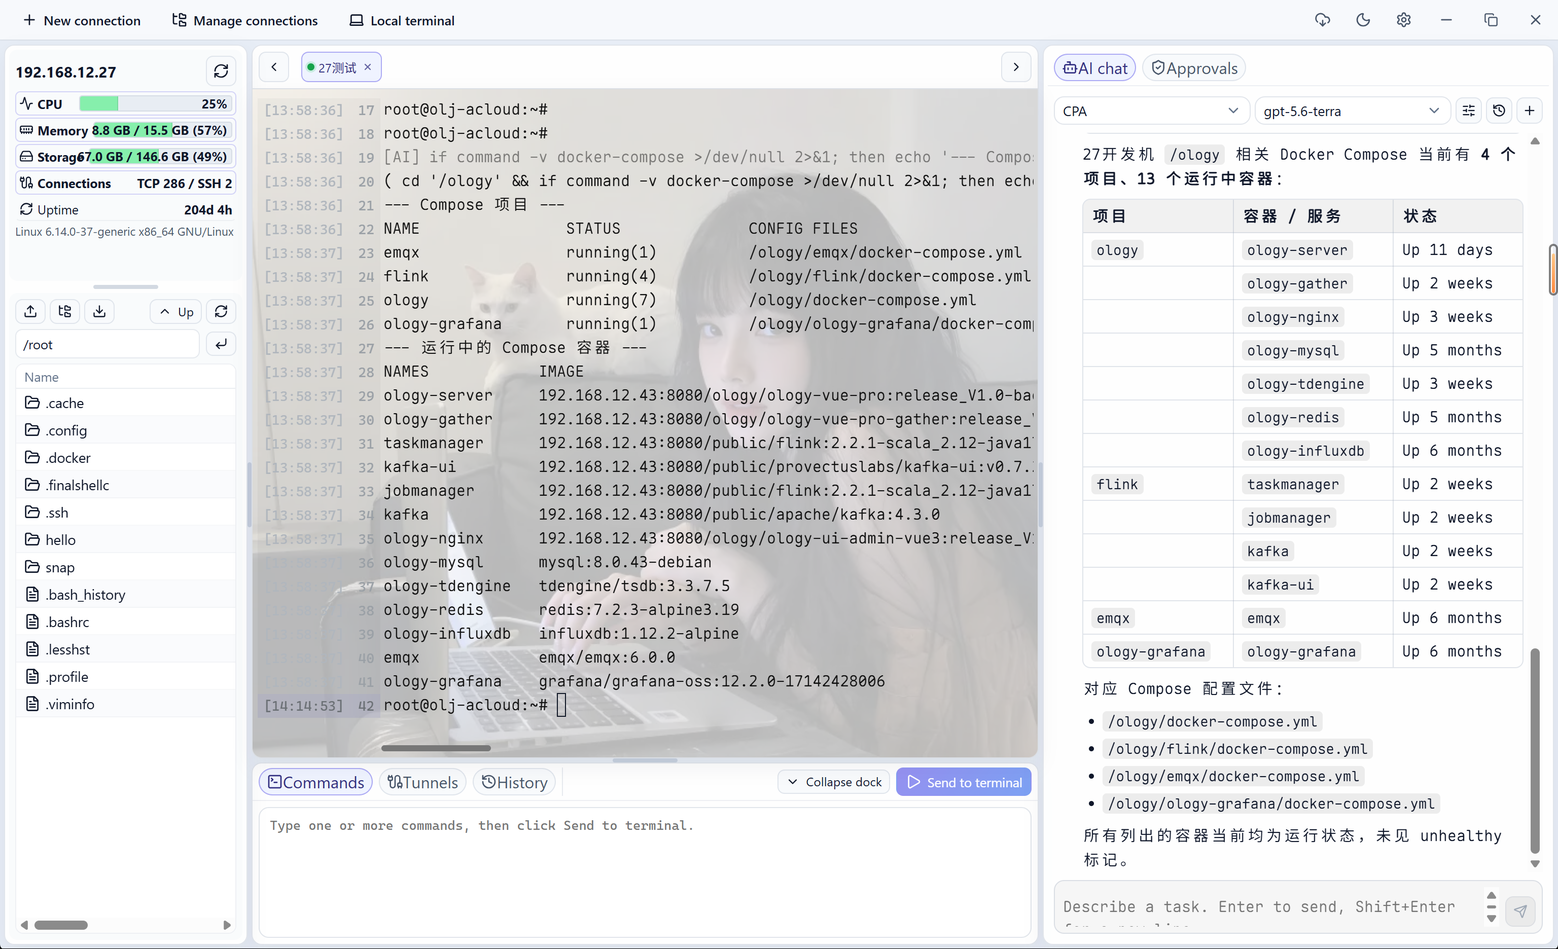
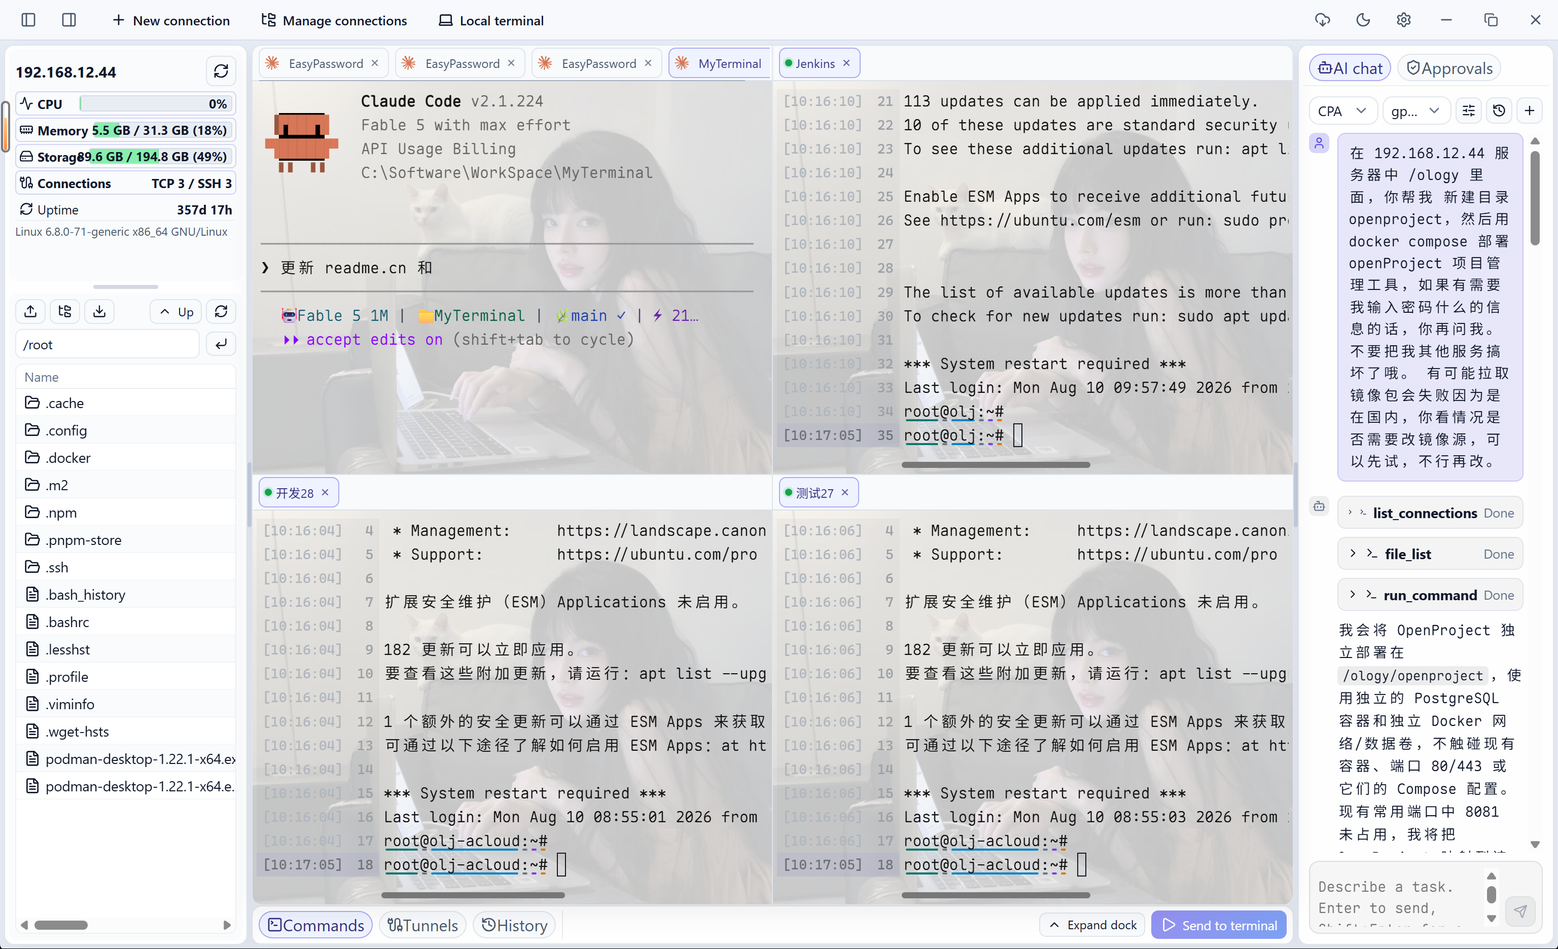
docs: 更新 .gitignore 文件 和 README.md 文件

diff --git a/README.md b/README.md
@@ -10,7 +10,7 @@
 
 A modern desktop SSH terminal manager built with Rust, Tauri 2, and React.
 
-MyTerminal brings terminal tabs, SSH profiles with jump hosts and proxies, SFTP file management, remote file editing, local port forwarding, and WebDAV backup into one clean desktop app. It is designed for developers and operators who want a lightweight, open, and hackable alternative to heavyweight remote terminal suites.
+MyTerminal brings terminal tabs with drag-to-split layouts, SSH profiles with jump hosts and proxies, Windows Remote Desktop, SFTP file management, remote file editing, local port forwarding, a built-in AI assistant, and WebDAV backup into one clean desktop app. It is designed for developers and operators who want a lightweight, open, and hackable alternative to heavyweight remote terminal suites.
 
 ![MyTerminal preview](img.png)
 
@@ -19,6 +19,8 @@ MyTerminal brings terminal tabs, SSH profiles with jump hosts and proxies, SFTP 
 ### SSH Profiles and Routing
 
 - **SSH profile manager** - Create, edit, group, duplicate, move, sort, and test SSH connections before opening a session.
+- **Windows Remote Desktop (RDP)** - Save RDP entries alongside SSH profiles and open them with the system Remote Desktop client. Passwords are written as session-scoped Windows credentials instead of being passed on the command line. Windows only, and without jump-host or proxy support.
+- **Connection type icons** - The connection list and editor use consistent icons to distinguish SSH terminals from Windows Remote Desktop entries; both types share the same group tree and ordering.
 - **Password and private-key authentication** - Connect with passwords, key files, or pasted private-key content, including passphrase and secret visibility toggles where needed.
 - **Jump hosts** - Configure ordered SSH jump-host chains and reuse the same routing model for terminals, file operations, tunnels, and MCP Bridge sessions.
 - **First-hop proxies** - Route the first SSH hop through SOCKS5 or HTTP CONNECT proxies with optional proxy authentication.
@@ -27,18 +29,25 @@ MyTerminal brings terminal tabs, SSH profiles with jump hosts and proxies, SFTP 
 ### Terminal Workspace
 
 - **Tabbed SSH terminals** - Open multiple PTY sessions, reorder tabs, reconnect in place, close sessions, and keep the session title tied to the active SSH profile.
+- **Drag-to-split layouts** - Drag a tab from the tab bar into the terminal area to split it. Eight snap points (four corners and four edge midpoints) appear with a live preview of the target region, and dropping either opens a new pane, moves the tab into a cell, or reshapes that cell. Layouts are built on a 2×2 grid with up to four panes, covering full screen, left/right, top/bottom, three-pane, and four-pane arrangements.
+- **Per-pane tab bars** - Each pane has its own tab bar and can hold several tabs with independent ordering. SSH and local terminals can be mixed freely, the focused pane is outlined, and the sidebar file, runtime, and command panels follow the focused tab. Split layouts live only for the current run and start from a single pane on restart.
 - **Non-blocking connection startup** - New SSH tabs enter a connecting state immediately while SSH handshake and authentication run in the background.
 - **Interactive input handling** - Printable input is lightly batched to reduce WebView-to-Rust IPC load, while Enter, Tab, control sequences, and editing keys are flushed immediately.
 - **Right-click workflows** - Use right-click menu actions for copy and paste, or configure right-click to paste directly; terminal focus is restored after menu actions.
+- **Line number and timestamp gutter** - A dedicated gutter on the left can show logical line numbers and the arrival time of each line. Right-click the gutter to toggle either one, and the choice is persisted immediately.
+- **Selection match highlighting** - Selecting terminal text highlights identical content elsewhere in the scrollback; this can be turned off in appearance settings.
+- **Prompt syntax highlighting** - User, host, path, and symbol segments of the shell prompt are colored separately, with distinct palettes for light and dark themes.
 - **Cursor recovery** - Remote programs that hide the terminal cursor and fail to restore it are handled at prompt boundaries so the input cursor comes back.
 - **Local cursor fallback** - The frontend restores xterm cursor visibility when switching sessions or replaying cached output, without sending control characters back to SSH.
-- **Search and fit behavior** - xterm.js powers terminal rendering, sizing, and terminal search support.
+- **Custom scrollbars** - The terminal scrollbar appears as the pointer approaches the right edge and supports dragging; the tab bar gains a click-to-jump, draggable horizontal scrollbar when tabs overflow.
+- **Adaptive sizing** - xterm.js powers terminal rendering, and rows and columns are recalculated and pushed to the remote PTY whenever the window or split layout changes.
 - **Focus-aware session switching** - Switching sessions, reconnecting, and delayed SSH startup restore input focus when the target terminal is ready.
 - **SSH long-line display modes** - SSH sessions can wrap automatically or keep long output on one horizontally scrolling line; local terminals and TUIs always wrap.
 - **Path-aware terminal output** - The shell injects a cwd sync hook so the app can follow remote directory changes made with `cd`, `pushd`, or `popd`.
 - **Direct-input cwd refresh** - Typed or pasted `cd` commands refresh the file panel early, then backend cwd markers correct the path if needed.
 - **Child-shell cwd sync** - Bash child shells inherit the cwd sync hook, while non-interactive scripts avoid emitting MyTerminal sync markers.
 - **Remote shell history** - Read remote shell history files for command history features without exposing MyTerminal's internal setup command.
+- **System clipboard bridge** - Copy and cut anywhere in the app also write to the Windows system clipboard, and terminal paste reads through the native channel so the WebView never prompts for clipboard permission.
 
 ### Local Terminals and AI CLIs
 
@@ -63,10 +72,24 @@ MyTerminal brings terminal tabs, SSH profiles with jump hosts and proxies, SFTP 
 
 ### Runtime and Tunnels
 
-- **Runtime overview** - Fetch remote OS, CPU, memory, disk, host IP, and uptime information for the active SSH profile.
+- **Runtime overview** - Fetch remote CPU, memory, root filesystem usage, connection counts, uptime, and OS information for the active SSH profile, with each row color-coded by utilization.
+- **Per-core CPU detail** - Expand the CPU row to see utilization for every individual core.
+- **Top resource consumers** - Expand the memory row to see the heaviest entries, sortable by memory or CPU and grouped by process or thread.
+- **Multiple resource sources** - Switch the resource statistics source between system processes, Docker, Podman, and Kubernetes in settings; the Kubernetes source reports pod-level CPU and memory across all namespaces.
+- **Largest file lookup** - Expand the storage row to find the largest files on the remote host with full paths, using a time-bounded scan.
 - **Connection details** - Expand the connections metric to inspect local/peer addresses and ports of established remote connections, with SSH management connections pinned and tagged.
 - **Local port forwarding** - Create, edit, start, and stop SSH local forwarding rules with custom bind addresses and target hosts.
 - **Tunnel lifecycle management** - Running tunnel records are tracked separately from terminal sessions so they can be stopped cleanly.
+
+### Built-in AI Assistant
+
+- **AI chat panel** - A collapsible right sidebar hosts an AI conversation with streaming output, a stop control, new-conversation support, and locally stored chat history you can reopen or delete.
+- **Multiple endpoints and models** - Configure several AI endpoints, each with its own models, context window, and output limit. API keys are encrypted at rest.
+- **Three API protocols** - Anthropic Messages, OpenAI Chat Completions, and OpenAI Responses are supported. The settings page previews the resolved request URL and maps common HTTP errors to actionable hints.
+- **Thinking effort and auto-compaction** - Pick a thinking effort level per turn and optionally auto-compact the conversation: once estimated tokens pass your threshold, older messages are folded into a summary and the panel says so.
+- **AI operations on remote hosts** - The assistant can list connections, run commands, and use the full remote file toolset, governed by the same approval policy as external MCP clients.
+- **Commands run in real terminals** - AI commands are typed into a visible terminal tab and echoed with a highlighted `[AI]` prefix. When the shell lacks command-boundary support, a full-screen TUI is in the foreground, or the terminal is busy, execution falls back to a background channel and the reason is reported honestly.
+- **Inline approvals** - Approval cards from the built-in assistant appear directly under the tool call that raised them, and the sidebar auto-expands to the chat tab when collapsed.
 
 ### MCP Bridge and AI Approval
 
@@ -76,6 +99,7 @@ MyTerminal brings terminal tabs, SSH profiles with jump hosts and proxies, SFTP 
 - **GUI-approved execution** - Remote commands, uploads, downloads, writes, deletes, renames, and directory creation requests are shown in MyTerminal for approval by default.
 - **Right-side AI execution panel** - Pending and completed AI requests live in a resizable right sidebar so command, file, and history panels remain available.
 - **Serialized session commands** - Commands submitted to the same AI bridge session run in order, while different sessions can still run concurrently.
+- **Dedicated execution settings** - Auto-execution, run-in-terminal, default timeout, and maximum output size live on a separate Execution settings page shared by the built-in assistant and external MCP clients.
 - **Auto-execution controls** - Enable automatic bridge execution globally or allow it only for selected SSH connections.
 - **AI approval notifications** - Pending AI execution requests can expand automatically, show compact SSH/command/target summaries, and raise desktop notifications with approval shortcuts where supported.
 - **Agent usage guidance** - MCP clients receive tool instructions that clarify list/open/use/close flow, session ID rules, and file-write best practices.
@@ -92,7 +116,10 @@ MyTerminal brings terminal tabs, SSH profiles with jump hosts and proxies, SFTP 
 ### Desktop Experience
 
 - **Bilingual UI** - Switch between English and Simplified Chinese.
-- **Theme and layout preferences** - Use light or dark mode, compact sidebar, customizable terminal fonts, terminal background images, right-click behavior, and long-line display mode.
+- **Custom title bar** - A borderless window with a custom title bar hosting sidebar toggles, new connection, connection manager, local terminal, update check, theme switch, settings, and window controls. In-app modals are draggable.
+- **Appearance settings** - Set Latin font, CJK font, font size, and line height separately for terminals and the AI chat area, with one-click reset for size and line height. Terminal background images support opacity plus cover, contain, stretch, tile, and center fitting. Right-click behavior, long-line mode, selection match highlighting, and hardware acceleration are all toggleable.
+- **Unified floating toasts** - Results from saving settings, testing connections, and copying configuration appear as a short-lived floating toast instead of inline blocks that shift the form layout.
+- **Progressive startup** - The terminal core and AI chat panel load on demand so the title bar and sidebars are usable first. The AI sidebar is not loaded until first expanded, and collapsing it afterwards never interrupts an in-flight streaming response.
 - **System tray support** - Keep MyTerminal accessible from the desktop shell with a tray icon.
 - **Local-first storage** - Settings and SSH profiles are stored locally, with encrypted secret handling inside the app and plain JSON only when you explicitly export.
 
@@ -211,6 +238,7 @@ npm run check        # Run frontend build and Rust backend checks
 - **Backend:** Rust, ssh2, reqwest, AES-GCM, local JSON persistence
 - **Frontend:** React, TypeScript, Vite, Zustand
 - **Terminal and editor:** xterm.js, portable-pty, Monaco Editor
+- **AI integration:** Anthropic Messages, OpenAI Chat Completions and Responses, MCP
 - **Sync and files:** SFTP, WebDAV, local import/export
 
 ## Acknowledgements

diff --git a/README_CN.md b/README_CN.md
@@ -10,7 +10,7 @@
 
 一个基于 Rust、Tauri 2 和 React 构建的现代桌面 SSH 终端管理工具。
 
-MyTerminal 把终端标签页、支持跳板机与代理的 SSH 连接管理、SFTP 文件管理、远程文件编辑、本地端口转发和 WebDAV 备份放到一个清爽的桌面应用里。它面向开发者和运维场景，希望提供一个轻量、开放、可折腾的远程终端工具。
+MyTerminal 把终端标签页与拖拽分屏、支持跳板机与代理的 SSH 连接管理、Windows 远程桌面、SFTP 文件管理、远程文件编辑、本地端口转发、内置 AI 助手和 WebDAV 备份放到一个清爽的桌面应用里。它面向开发者和运维场景，希望提供一个轻量、开放、可折腾的远程终端工具。
 
 ![MyTerminal 预览](img_cn.png)
 
@@ -19,6 +19,8 @@ MyTerminal 把终端标签页、支持跳板机与代理的 SSH 连接管理、S
 ### SSH 连接与链路
 
 - **SSH 连接管理** - 支持新建、编辑、分组、复制、移动、拖拽排序，并可在连接前测试配置。
+- **Windows 远程桌面（RDP）** - 连接列表可保存 RDP 连接，打开时调用系统自带的远程桌面客户端；密码通过 Windows 凭据 API 以会话级凭据写入，不经过命令行明文传递。仅 Windows 可用，且不支持跳板机与代理。
+- **连接类型区分** - 连接列表和编辑表单用统一图标区分 SSH 终端与 Windows 远程桌面，两类连接共用同一套分组树和排序。
 - **密码与私钥认证** - 支持 SSH 密码、私钥文件、粘贴私钥内容认证，以及密码 / 私钥口令的明文查看开关。
 - **跳板机链路** - 支持按顺序配置多级 SSH 跳板机，终端、文件操作、隧道和 MCP Bridge 会话统一复用这套链路模型。
 - **首跳代理** - 支持通过 SOCKS5 或 HTTP CONNECT 代理连接第一跳 SSH，并可配置代理认证。
@@ -27,18 +29,25 @@ MyTerminal 把终端标签页、支持跳板机与代理的 SSH 连接管理、S
 ### 终端工作区
 
 - **多标签 SSH 终端** - 支持真实 SSH PTY 会话、多会话标签页、标签拖拽排序、原位重连、关闭会话，并根据 SSH 连接显示标签标题。
+- **拖拽分屏** - 把标签从标签栏拖入终端区即可分屏，终端区会浮出四角与四边共 8 个吸附点并实时预览目标区域，落点分别对应新开分屏、移到此格和改变此格范围。基于 2×2 网格，最多 4 格，可组成整屏、左右两分、上下两分、三分和四分布局。
+- **每格独立标签栏** - 每个分屏格有自己的标签栏，一格可以挂多个标签并单独排序；SSH 与本地终端可混合分屏，聚焦的格子带描边高亮，侧栏的文件、运行状态和命令面板跟随当前聚焦标签。分屏布局只存在于运行期，重启后从单格开始。
 - **非阻塞连接启动** - 打开 SSH 标签后立即进入 connecting 状态，SSH 握手与认证在后台线程完成，避免界面等待网络。
 - **交互输入处理** - 普通字符使用极短合并窗口降低 WebView 到 Rust 的 IPC 压力，Enter、Tab、控制序列和编辑键立即发送到远端 PTY。
 - **右键工作流** - 支持右键菜单复制 / 粘贴，也可配置右键直接粘贴；菜单操作结束后会把焦点交回终端。
+- **行号与时间戳栏** - 终端左侧独立栏可显示逻辑行号和每行到达时刻的时间戳，在该栏上右键即可分别开关，切换后立即持久化。
+- **选中匹配高亮** - 选中终端文本后，滚动缓冲区内完全一致的内容会自动高亮，可在外观设置中关闭。
+- **提示符语义高亮** - 提示符中的用户、主机、路径和符号按语义分色渲染，深浅色主题各有一套配色。
 - **光标恢复** - 远端程序隐藏光标后如果异常返回 shell，提示符边界会兜底恢复光标，避免后续输入看不到插入点。
 - **本地光标兜底** - 切换会话或重放缓存输出时，前端会恢复 xterm 光标显示，且不会把控制符发送回 SSH。
-- **搜索与自适应尺寸** - 基于 xterm.js 提供终端渲染、尺寸适配和搜索能力。
+- **自绘滚动条** - 终端右侧滚动条在指针靠近时显现并支持拖拽；标签过多时标签栏也会出现可点击跳转、可拖拽的横向滚动条。
+- **自适应尺寸** - 基于 xterm.js 渲染，窗口缩放和分屏布局变化时自动重算行列数并同步远端 PTY。
 - **会话焦点管理** - 切换会话、重连或 SSH 后台启动完成后，会在目标终端可输入时恢复输入焦点。
 - **SSH 长行展示模式** - SSH 会话可选择自动换行，或使用横向滚动把长输出保留在同一行并跟随光标；本地终端与 TUI 始终自动换行。
 - **终端路径联动** - 注入远端 cwd 同步钩子后，终端执行 `cd`、`pushd`、`popd` 可联动文件管理器路径。
 - **直接输入路径刷新** - 手输或粘贴 `cd` 命令后会提前刷新文件面板，后端 cwd 标记返回后再做最终校正。
 - **子 Shell 路径同步** - Bash 子 Shell 会继承 cwd 同步钩子，非交互脚本不会输出 MyTerminal 的同步标记。
 - **远端历史读取** - 可读取远端 shell 历史文件用于命令历史能力，同时隐藏 MyTerminal 内部注入命令。
+- **系统剪贴板桥接** - 应用内任意位置的复制 / 剪切都会同步写入 Windows 系统剪贴板，终端右键粘贴也走原生通道，避免 WebView 弹出剪贴板权限请求。
 
 ### 本地终端与 AI CLI
 
@@ -63,10 +72,24 @@ MyTerminal 把终端标签页、支持跳板机与代理的 SSH 连接管理、S
 
 ### 运行状态与隧道
 
-- **运行状态概览** - 可读取当前 SSH 连接的远端 OS、CPU、内存、磁盘、主机 IP 和 uptime 信息。
+- **运行状态概览** - 可读取当前 SSH 连接的远端 CPU、内存、根分区存储、连接数、运行时长和操作系统信息，各行按占用率分级着色。
+- **每核心 CPU 明细** - 展开 CPU 行可查看每个核心的独立占用率。
+- **资源占用 Top 列表** - 展开内存行可查看占用最高的条目，支持按内存 / CPU 排序，以及按进程 / 线程统计。
+- **多种资源来源** - 资源占用统计来源可在设置中切换为系统进程、Docker、Podman 或 Kubernetes；Kubernetes 来源读取全命名空间的 Pod 级 CPU 与内存。
+- **最大文件排查** - 展开存储行可查看远端占用空间最大的若干文件及完整路径，扫描带超时限制。
 - **连接明细展开** - 连接数行可展开查看远端 ESTABLISHED 连接的本地 / 对端地址与端口，SSH 管理连接自动置顶并标记。
 - **本地端口转发** - 支持本地端口转发记录的新建、编辑、开启和停止，并可配置 bind 地址与目标地址。
 - **隧道生命周期管理** - 运行中的隧道和终端会话分开记录，可独立停止和清理。
+
+### 内置 AI 助手
+
+- **AI 对话面板** - 右侧可折叠侧栏内置 AI 对话，支持流式输出、随时停止、新建对话，以及本地保存和恢复历史对话。
+- **多端点多模型** - 可配置多个 AI 端点，每个端点下配置多个模型，并分别设置上下文窗口和输出上限；API Key 加密落盘。
+- **三种接口协议** - 支持 Anthropic Messages、OpenAI Chat Completions 和 OpenAI Responses 协议，设置页会实时预览实际请求地址，并针对常见错误码给出排查建议。
+- **思考强度与自动压缩** - 每轮对话可选择思考强度，并可开启上下文自动压缩：估算 token 超过设定比例时自动折叠较早消息并提示。
+- **AI 直接操作远端** - AI 可调用列连接、执行命令和一整套远端文件工具，与外部 MCP 客户端共用同一套审批策略。
+- **命令在真实终端执行** - AI 的远程命令默认打进用户可见的终端标签，命令行以 `[AI]` 前缀高亮显示；Shell 不支持命令边界协议、前台是全屏 TUI 或终端被占用时，自动回退后台执行并如实返回回退原因。
+- **内联审批** - 内置 AI 产生的审批卡片直接挂在对应工具调用下方，侧栏收起时会自动展开并切到对话页。
 
 ### MCP Bridge 与 AI 审批
 
@@ -76,6 +99,7 @@ MyTerminal 把终端标签页、支持跳板机与代理的 SSH 连接管理、S
 - **GUI 审批执行** - 远程命令、上传、下载、写入、删除、重命名和创建目录请求默认进入 MyTerminal 审批面板。
 - **右侧 AI 执行栏** - 待审批和已完成的 AI 请求会显示在可调整宽度的右侧栏，命令、文件和历史面板可继续使用。
 - **会话命令串行** - 同一个 AI Bridge 会话内的命令会按顺序执行，不同会话仍可并发执行。
+- **独立执行设置页** - 自动执行、在终端中执行、默认超时和最大输出字节集中在「执行」设置页，内置 AI 助手与外部 MCP 共用同一份规则。
 - **自动执行控制** - 可全局开启 Bridge 自动执行，也可在关闭全局自动执行时按 SSH 连接配置白名单。
 - **AI 审批通知** - 待确认请求可自动展开 AI 执行面板，展示 SSH 机器、命令或目标摘要，并在系统支持时通过桌面通知按钮快速审批。
 - **Agent 使用引导** - MCP 客户端会收到工具说明，明确 list/open/use/close 流程、sessionId 规则和文件写入建议。
@@ -92,7 +116,10 @@ MyTerminal 把终端标签页、支持跳板机与代理的 SSH 连接管理、S
 ### 桌面体验
 
 - **双语界面** - 支持简体中文 / English 切换。
-- **主题与布局偏好** - 支持深浅色、紧凑侧边栏、终端字体、终端背景图片、右键行为和长行展示模式等设置。
+- **自定义标题栏** - 无边框窗口配自绘标题栏，集成侧栏开关、新建连接、连接管理、本地终端、检查更新、主题切换、设置和窗口控制按钮；应用内弹窗均可拖动。
+- **外观设置** - 终端与 AI 对话区可分别设置西文字体、中文字体、字号和行高，字号与行高支持一键恢复默认；终端背景图可设置不透明度和 cover / contain / stretch / tile / center 填充方式；另有右键行为、长行展示模式、选中匹配高亮和硬件加速开关。
+- **统一浮动提示** - 保存设置、测试连接、复制配置等操作结果通过统一的浮动提示反馈，短暂显示后自动消失，不再挤占表单布局。
+- **渐进式启动** - 终端内核与 AI 对话面板按需加载，标题栏和侧栏先行可用；AI 侧栏首次展开前不加载，展开后收起也不会中断进行中的流式响应。
 - **系统托盘** - 支持桌面托盘图标，方便从系统外壳快速访问。
 - **本地优先存储** - 设置和 SSH 连接保存在本地，应用内部处理敏感字段；只有显式导出 JSON 时才会生成明文配置包。
 
@@ -211,6 +238,7 @@ npm run check        # 执行前端构建和 Rust 后端检查
 - **后端：** Rust、ssh2、reqwest、AES-GCM、本地 JSON 持久化
 - **前端：** React、TypeScript、Vite、Zustand
 - **终端与编辑器：** xterm.js、portable-pty、Monaco Editor
+- **AI 集成：** Anthropic Messages、OpenAI Chat Completions / Responses、MCP
 - **同步与文件：** SFTP、WebDAV、本地导入 / 导出
 
 ## 致谢
